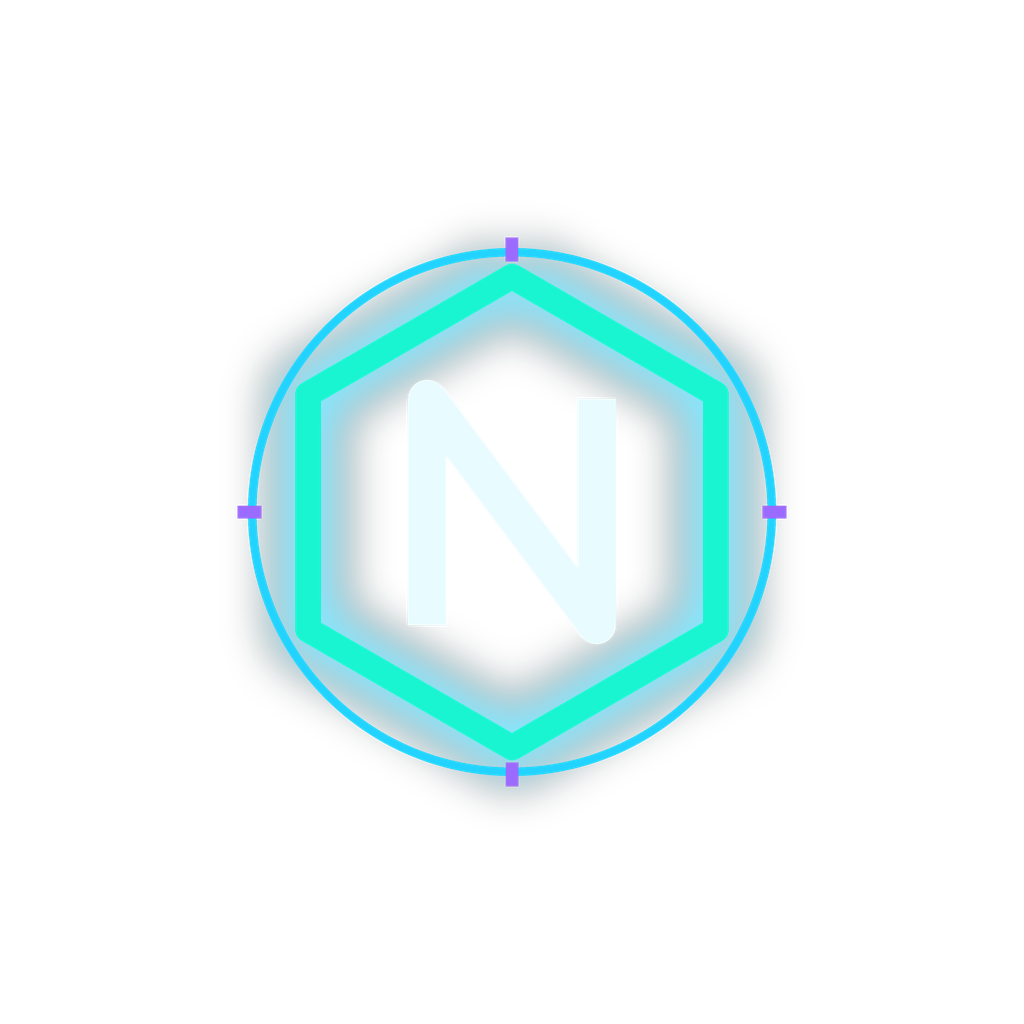
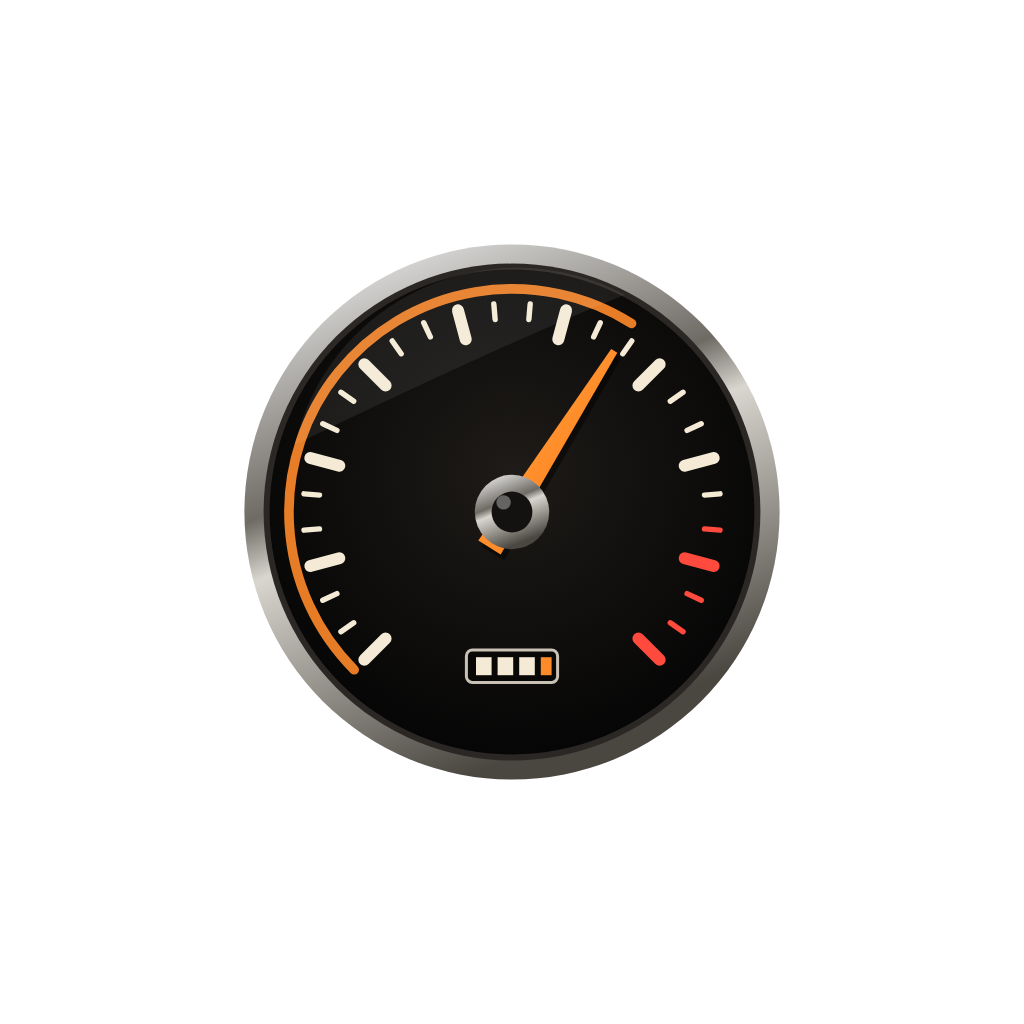
Bağımsız KADRAN simgesi: krom çerçeveli kadran, amber ibre (tüm boyutlar, Android uyarlanabilir ve tek renk)
Claude-Session: https://claude.ai/code/session_01HLXDZa9bFVa9KDB76CVmjz

Changed region(s): [[0.2188, 0.2188, 0.7812, 0.7812]]

diff --git a/scripts/simge/render.js b/scripts/simge/render.js
@@ -1,0 +1,7 @@
+const { chromium } = require('playwright'); const fs = require('fs');
+const D = process.argv[2];
+(async () => { const b = await chromium.launch(); const p = await b.newPage({ viewport: { width: 1024, height: 1024 } });
+for (const n of ['icon', 'maskable', 'fg', 'bgonly', 'mono', 'splash']) {
+  await p.setContent(`<html><body style="margin:0;background:transparent">${fs.readFileSync(D + '/' + n + '.svg', 'utf8')}</body></html>`);
+  await p.locator('svg').screenshot({ path: D + '/' + n + '.png', omitBackground: true });
+} await b.close(); })();

diff --git a/scripts/simge/make.py b/scripts/simge/make.py
@@ -1,0 +1,65 @@
+import math, sys
+OUT = sys.argv[1]
+def pt(r, a):
+    return 512 + r * math.cos(math.radians(a)), 512 + r * math.sin(math.radians(a))
+
+def dial(mono=False):
+    """Kadran: krom çerçeve, siyah yüz, 270° çizgiler, amber ibre (1024 kutusunda, merkez 512)."""
+    A0, SW = 135, 270
+    ticks = []
+    for i in range(0, 28):
+        a = A0 + SW * i / 27
+        big = i % 3 == 0
+        x1, y1 = pt(348, a); x2, y2 = pt(298 if big else 322, a)
+        col = '#FFFFFF' if mono else ('#F4EAD5' if i < 23 else '#FF4A3D')
+        ticks.append(f'<line x1="{x1:.1f}" y1="{y1:.1f}" x2="{x2:.1f}" y2="{y2:.1f}" stroke="{col}" stroke-width="{20 if big else 9}" stroke-linecap="round"/>')
+    na = A0 + SW * 0.62
+    nx, ny = pt(318, na); tx, ty = pt(-70, na)
+    px, py = math.cos(math.radians(na + 90)), math.sin(math.radians(na + 90))
+    w1, w2 = 22, 6
+    needle = f'M{tx + px*w1:.1f} {ty + py*w1:.1f} L{nx + px*w2:.1f} {ny + py*w2:.1f} L{nx - px*w2:.1f} {ny - py*w2:.1f} L{tx - px*w1:.1f} {ty - py*w1:.1f} Z'
+    if mono:
+        return f'''<circle cx="512" cy="512" r="430" fill="none" stroke="#FFF" stroke-width="40"/>{''.join(ticks)}
+<path d="{needle}" fill="#FFF"/><circle cx="512" cy="512" r="58" fill="#FFF"/>'''
+    # amber hız yayı (0 → ibre)
+    ax0, ay0 = pt(372, A0); ax1, ay1 = pt(372, na)
+    large = 1 if SW * 0.62 > 180 else 0
+    return f'''
+<circle cx="512" cy="512" r="446" fill="url(#chrome)"/>
+<circle cx="512" cy="512" r="414" fill="#2A2724"/>
+<circle cx="512" cy="512" r="404" fill="url(#face)"/>
+<path d="M{ax0:.1f} {ay0:.1f} A372 372 0 {large} 1 {ax1:.1f} {ay1:.1f}" stroke="#FF8A2A" stroke-width="16" fill="none" stroke-linecap="round" opacity="0.9"/>
+{''.join(ticks)}
+<g transform="translate(6 10)" opacity="0.45"><path d="{needle}" fill="#000"/></g>
+<path d="{needle}" fill="url(#needle)"/>
+<circle cx="512" cy="512" r="62" fill="url(#chrome)"/>
+<circle cx="512" cy="512" r="34" fill="#141210"/>
+<circle cx="498" cy="496" r="12" fill="#FFF" opacity="0.35"/>
+<rect x="436" y="742" width="152" height="54" rx="10" fill="#0A0806" stroke="#C9C2B4" stroke-width="5"/>
+<rect x="452" y="754" width="26" height="30" fill="#F4EAD5"/><rect x="488" y="754" width="26" height="30" fill="#F4EAD5"/><rect x="524" y="754" width="26" height="30" fill="#F4EAD5"/><rect x="560" y="754" width="18" height="30" fill="#FF8A2A"/>
+<path d="M150 400 A380 380 0 0 1 700 150 Q480 240 150 400 Z" fill="#FFF" opacity="0.07"/>'''
+
+DEFS = '''<defs>
+<radialGradient id="bg" cx="0.5" cy="0.4" r="0.75"><stop offset="0" stop-color="#3A2414"/><stop offset="1" stop-color="#0B0806"/></radialGradient>
+<linearGradient id="chrome" x1="0" y1="0" x2="0.4" y2="1"><stop offset="0" stop-color="#FFFFFF"/><stop offset="0.45" stop-color="#6E6A64"/><stop offset="0.55" stop-color="#D9D6CF"/><stop offset="1" stop-color="#4A4640"/></linearGradient>
+<radialGradient id="face" cx="0.5" cy="0.42" r="0.6"><stop offset="0" stop-color="#1E1B18"/><stop offset="1" stop-color="#050505"/></radialGradient>
+<linearGradient id="needle" x1="0" y1="0" x2="1" y2="1"><stop offset="0" stop-color="#FFB347"/><stop offset="1" stop-color="#FF6A10"/></linearGradient>
+</defs>'''
+
+def svg(body, bg=True):
+    back = '<rect width="1024" height="1024" fill="url(#bg)"/>' if bg else ''
+    return f'<svg xmlns="http://www.w3.org/2000/svg" width="1024" height="1024" viewBox="0 0 1024 1024">{DEFS}{back}{body}</svg>'
+
+def scaled(body, k):
+    return f'<g transform="translate({512-512*k} {512-512*k}) scale({k})">{body}</g>'
+
+files = {
+    'icon': svg(scaled(dial(), 0.86)),                      # iOS/genel: tam kare (köşeleri sistem yuvarlar)
+    'maskable': svg(scaled(dial(), 0.66)),                  # güvenli bölge içinde
+    'fg': svg(scaled(dial(), 0.6), bg=False),               # Android uyarlanabilir: ön katman
+    'bgonly': svg(''),                                      # Android uyarlanabilir: arka katman
+    'mono': svg(scaled(dial(True), 0.6), bg=False),         # Android tek renk
+    'splash': svg(scaled(dial(), 0.98), bg=False),          # açılış ekranı
+}
+for k, v in files.items():
+    open(f'{OUT}/{k}.svg', 'w').write(v)

diff --git a/README.md b/README.md
@@ -1,7 +1,7 @@
 # KADRAN · Klasik Gösterge
 
 Klasik araç göstergeleri: hız telefonun GPS'inden ölçülür, analog ibreler ve eski dijital ekranlar gerçek zamanlı çalışır.
-Nexus HUD ile aynı ekran düzenini kullanır ama ondan tamamen bağımsız bir uygulamadır (ayrı ad, kimlik ve ayar deposu).
+Kendi adı, simgesi, uygulama kimliği ve ayar deposu olan bağımsız bir uygulamadır.
 
 ## Temalar (her biri farklı geometri)
 

diff --git a/scripts/simge/README.md b/scripts/simge/README.md
@@ -1,0 +1,9 @@
+# KADRAN simgesi
+
+Simge SVG olarak çizilir ve tarayıcıda PNG'ye dönüştürülür.
+
+```bash
+mkdir -p /tmp/simge && python3 scripts/simge/make.py /tmp/simge && node scripts/simge/render.js /tmp/simge
+```
+
+Çıktılar: `icon` (genel), `maskable` (yuvarlak maske güvenli bölge), `fg` / `bgonly` / `mono` (Android uyarlanabilir simge), `splash` (açılış).
